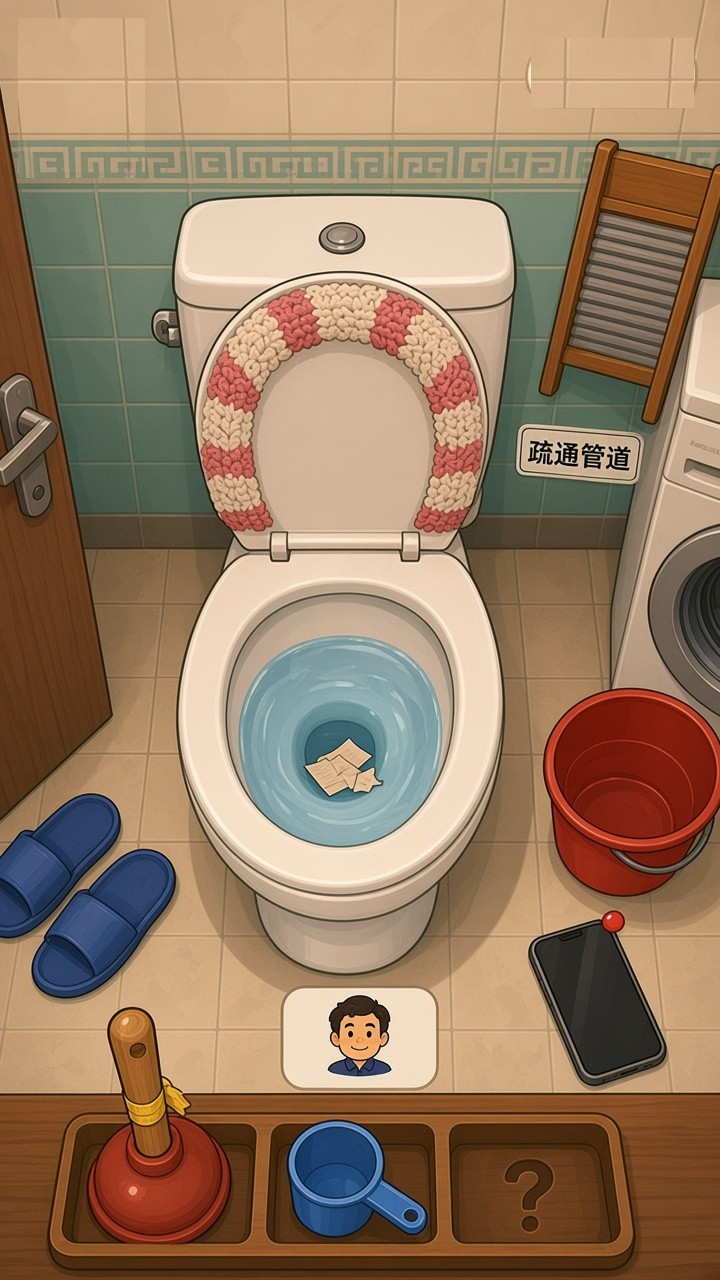
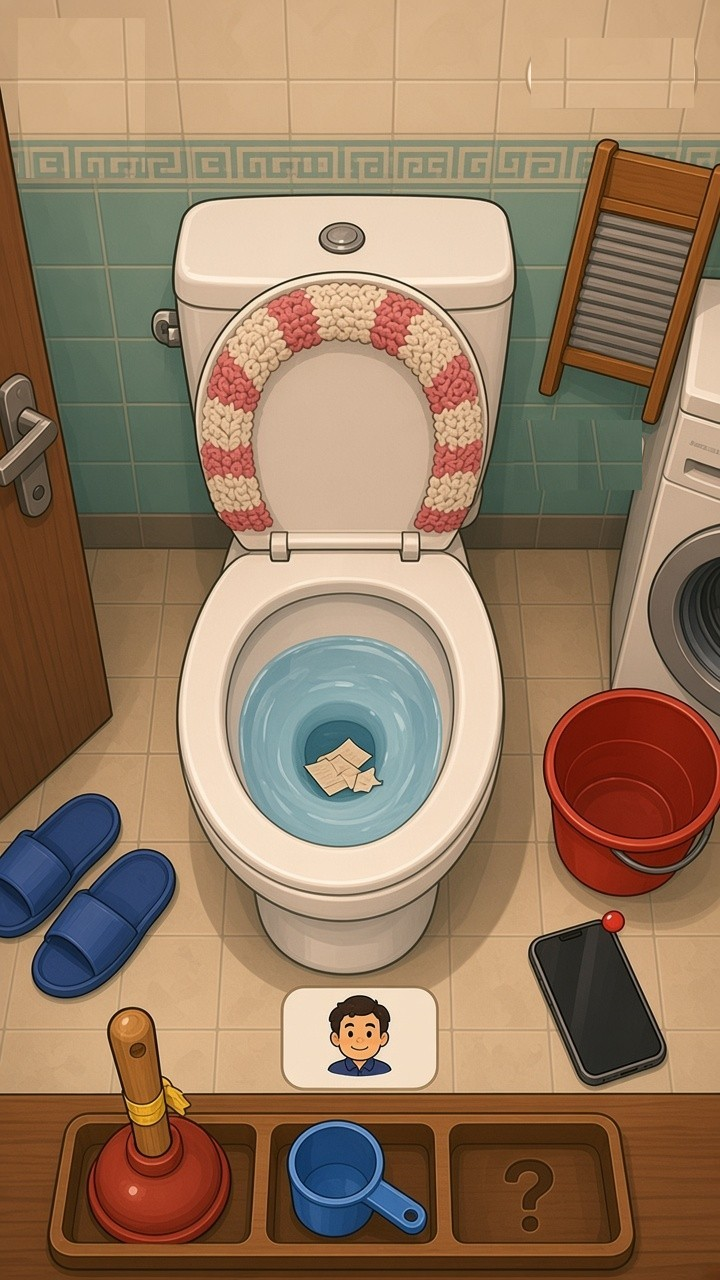
UI: hifi v1.1 — type scale/8px grid spec, remove tips, settlement shows 徐哥, ad removed from mock bg

Changed region(s): [[0.7028, 0.3125, 0.9167, 0.4062]]

diff --git a/design/ui/hifi/hifi_v1.html b/design/ui/hifi/hifi_v1.html
@@ -1,121 +1,139 @@
 <html><head><meta charset="utf-8"><style>
-:root{--ln:#5A4030;--paper:#FFF8EC;--paper2:#F6EAD3;--coin:#FFC83D;--ok:#6FCF6F;--bad:#F07A5C;--red:#D9413A;--tape:#F2C84B;--sh:0 3px 8px rgba(70,45,25,.28)}
-*{box-sizing:border-box}
-body{margin:0;background:#2b211b;font-family:"Noto Sans CJK SC",sans-serif;color:var(--ln)}
-.row{display:flex;gap:28px;padding:28px}
-.cap{color:#f3e6cf;font-size:15px;margin:0 0 10px;font-weight:700}
-.ph{position:relative;width:390px;height:780px;border-radius:30px;overflow:hidden;outline:4px solid #000;background:url(_bg_clean.jpg) center/cover}
-.safe{position:absolute;left:0;right:0;height:15px;background:repeating-linear-gradient(45deg,rgba(255,0,80,.18) 0 6px,transparent 6px 12px);z-index:20;pointer-events:none}
+/* ===== tokens (ui-spec v1.1) ===== */
+:root{
+ --ink:#5A4030;--ink2:#8A6F5A;--ink3:#B9A68F;--line:#E6D6BC;
+ --paper:#FFF8EC;--paper2:#F6EAD3;--coin:#FFC83D;--ok:#5DBB63;--okbg:#E8F5E3;--red:#D9413A;
+ --sh:0 2px 8px rgba(70,45,25,.25);
+ --s1:4px;--s2:8px;--s3:16px;--s4:24px;--s5:32px;
+}
+*{box-sizing:border-box;margin:0}
+body{background:#2b211b;font-family:"Noto Sans CJK SC",sans-serif;color:var(--ink);font-variant-numeric:tabular-nums;-webkit-font-smoothing:antialiased}
+.t1{font-size:40px;line-height:48px;font-weight:700}
+.t2{font-size:20px;line-height:28px;font-weight:700}
+.t3{font-size:16px;line-height:24px}
+.t4{font-size:14px;line-height:20px}
+.t5{font-size:12px;line-height:16px}
+.b{font-weight:700}.mute{color:var(--ink2)}.c{text-align:center}
+.row{display:flex;gap:32px;padding:32px}
+.cap{color:#f3e6cf;font-size:14px;margin:0 0 8px;font-weight:700}
+.ph{position:relative;width:390px;height:780px;border-radius:32px;overflow:hidden;outline:4px solid #000;background:url(_bg_clean.jpg) center/cover}
+.safe{position:absolute;left:0;right:0;height:15px;background:repeating-linear-gradient(45deg,rgba(255,0,80,.18) 0 6px,transparent 6px 12px);z-index:20}
 .wxcap{position:absolute;top:8px;right:8px;width:88px;height:32px;border-radius:16px;border:1.5px dashed rgba(255,255,255,.8);background:rgba(0,0,0,.25);color:#fff;font-size:10px;display:flex;align-items:center;justify-content:center;z-index:20}
-.dim::after{content:"";position:absolute;inset:0;background:rgba(43,30,20,.55);z-index:5}
-.card{position:absolute;z-index:6;background:var(--paper);border:2px solid var(--ln);border-radius:20px;box-shadow:var(--sh)}
-.btn{border:2px solid var(--ln);border-radius:14px;font-weight:900;display:flex;align-items:center;justify-content:center;box-shadow:inset 0 -4px 0 rgba(90,64,48,.22),var(--sh)}
-.pri{background:linear-gradient(#FFD45E,#F5B92E);font-size:20px}
-.sec{background:#fff;font-size:15px}
-.small{font-size:12px;color:#8a6f5a;line-height:1.3}
+.dim::after{content:"";position:absolute;inset:0;background:rgba(43,30,20,.6);z-index:5}
+.panel{background:var(--paper);border:2px solid var(--ink);box-shadow:var(--sh)}
+.card{position:absolute;left:24px;right:24px;z-index:6;border-radius:24px;padding:24px}
+.btn{height:56px;border:2px solid var(--ink);border-radius:16px;display:flex;align-items:center;justify-content:center;box-shadow:inset 0 -4px 0 rgba(90,64,48,.2),var(--sh)}
+.pri{background:linear-gradient(#FFD45E,#F5B92E)}
+.sec{height:48px;background:#fff}
+.hr{height:0;border-top:1.5px dashed var(--line)}
+.kv{display:flex;justify-content:space-between;align-items:center;height:32px}
 /* HUD */
-.who{position:absolute;top:48px;left:12px;width:74px;padding:5px 5px 6px;background:var(--paper);border:2px solid var(--ln);border-radius:14px;box-shadow:var(--sh);z-index:3;text-align:center}
-.who img{width:60px;height:60px;border-radius:10px;display:block;margin:0 auto}
-.pat{display:flex;gap:4px;justify-content:center;margin-top:5px}.pat i{width:10px;height:10px;border-radius:50%;background:var(--ok);border:1.5px solid var(--ln)}.pat i.off{background:#E5D6BD}
-.coins{position:absolute;top:48px;right:12px;height:40px;padding:0 14px 0 6px;background:var(--paper);border:2px solid var(--ln);border-radius:20px;box-shadow:var(--sh);display:flex;align-items:center;gap:6px;font-size:20px;font-weight:900;z-index:3}
-.cn{width:28px;height:28px;border-radius:50%;background:radial-gradient(circle at 40% 35%,#FFE38A,#F2B21C);border:2px solid #B07A10;color:#8a5a00;font-size:15px;font-weight:900;display:flex;align-items:center;justify-content:center}
-.order{position:absolute;top:96px;right:62px;height:36px;padding:0 10px;background:rgba(255,248,236,.94);border:2px solid var(--ln);border-radius:12px;box-shadow:var(--sh);display:flex;align-items:center;gap:6px;font-size:14px;font-weight:900;z-index:3}
-.gear{position:absolute;top:92px;right:12px;width:44px;height:44px;border-radius:50%;background:var(--paper);border:2px solid var(--ln);box-shadow:var(--sh);display:flex;align-items:center;justify-content:center;font-size:22px;z-index:3}
-.bubble{position:absolute;left:96px;top:150px;max-width:220px;background:#fff;border:2px solid var(--ln);border-radius:14px;padding:7px 12px;font-size:14px;font-weight:700;box-shadow:var(--sh);z-index:3}
-.bubble::before{content:"";position:absolute;left:-9px;top:12px;border:8px solid transparent;border-right-color:var(--ln);border-left:0}
-.toast{position:absolute;left:50%;top:390px;transform:translateX(-50%);font-size:32px;font-weight:900;color:var(--ok);-webkit-text-stroke:1.5px var(--ln);text-shadow:0 3px 6px rgba(0,0,0,.25);z-index:3}
-.ring{position:absolute;left:142px;top:430px;width:110px;height:110px;border-radius:50%;border:5px solid var(--ok);border-right-color:transparent;z-index:3;opacity:.9;filter:drop-shadow(0 0 6px rgba(111,207,111,.8))}
+.who{position:absolute;top:48px;left:16px;width:80px;padding:8px;border-radius:16px;z-index:3}
+.who img{width:60px;height:60px;border-radius:8px;display:block;margin:0 auto}
+.pat{display:flex;gap:4px;justify-content:center;margin-top:8px}.pat i{width:12px;height:8px;border-radius:4px;background:var(--ok)}.pat i.off{background:#E5D6BD}
+.coins{position:absolute;top:48px;right:16px;height:40px;padding:0 16px 0 8px;border-radius:20px;display:flex;align-items:center;gap:8px;z-index:3}
+.cn{width:24px;height:24px;border-radius:50%;background:radial-gradient(circle at 40% 35%,#FFE38A,#F2B21C);border:2px solid #B07A10;color:#7a4e00;font-size:12px;font-weight:700;display:flex;align-items:center;justify-content:center}
+.order{position:absolute;top:96px;right:72px;height:48px;padding:0 16px;border-radius:16px;display:flex;flex-direction:column;justify-content:center;z-index:3}
+.gear{position:absolute;top:96px;right:16px;width:48px;height:48px;border-radius:50%;display:flex;align-items:center;justify-content:center;z-index:3}
+.gear svg{width:24px;height:24px}
+.bubble{position:absolute;left:16px;top:160px;max-width:240px;padding:8px 16px;border-radius:16px;z-index:3;background:#fff}
+.bubble::before{content:"";position:absolute;left:32px;top:-9px;border:8px solid transparent;border-bottom-color:var(--ink);border-top:0}
+.toast{position:absolute;left:0;right:0;top:384px;text-align:center;color:var(--ok);-webkit-text-stroke:1.5px var(--ink);z-index:3}
+.ring{position:absolute;left:144px;top:432px;width:104px;height:104px;border-radius:50%;border:4px solid var(--ok);border-right-color:transparent;z-index:3;filter:drop-shadow(0 0 6px rgba(93,187,99,.8))}
 /* toolbox */
-.floor{position:absolute;left:0;right:0;bottom:0;height:190px;background:linear-gradient(90deg,rgba(150,120,85,.35) 1px,transparent 1px) 0 0/62px 62px,linear-gradient(rgba(150,120,85,.35) 1px,transparent 1px) 0 0/62px 62px,#D9C3A0;box-shadow:0 -6px 10px rgba(80,55,30,.25);z-index:2}
-.box{position:absolute;left:12px;bottom:18px;width:290px;height:130px;background:url(_toolbox_crop.png) center/100% 100%;z-index:3;filter:drop-shadow(0 4px 6px rgba(60,35,15,.35))}
-.slot{position:absolute;top:8px;width:64px;height:84px}
-.slot.sel{outline:3px solid #FFE27A;border-radius:6px;box-shadow:0 0 12px 3px rgba(255,220,90,.9);transform:translateY(-8px)}
-.lab{position:absolute;bottom:8px;width:64px;text-align:center;font-size:12px;font-weight:900;color:#FFF3DA;text-shadow:0 1px 0 rgba(0,0,0,.5)}
-.lab.lk{color:#F5D9B0;font-weight:700}
-.phone{position:absolute;right:14px;bottom:34px;width:62px;height:94px;border-radius:12px;background:linear-gradient(160deg,#3a3a3a,#161616);border:2px solid #111;transform:rotate(-10deg);box-shadow:0 5px 8px rgba(0,0,0,.35);z-index:3}
-.phone::after{content:"";position:absolute;inset:5px;border-radius:7px;background:linear-gradient(160deg,#2c3440,#11161c)}
+.floor{position:absolute;left:0;right:0;bottom:0;height:192px;background:linear-gradient(90deg,rgba(150,120,85,.3) 1px,transparent 1px) 0 0/64px 64px,linear-gradient(rgba(150,120,85,.3) 1px,transparent 1px) 0 0/64px 64px,#D9C3A0;box-shadow:0 -4px 8px rgba(80,55,30,.2);z-index:2}
+.box{position:absolute;left:16px;bottom:16px;width:288px;height:128px;background:url(_toolbox_crop.png) center/100% 100%;z-index:3;filter:drop-shadow(0 4px 6px rgba(60,35,15,.35))}
+.slot{position:absolute;top:8px;width:64px;height:80px}
+.slot.sel{outline:3px solid #FFE27A;border-radius:8px;box-shadow:0 0 12px 2px rgba(255,220,90,.9)}
+.lab{position:absolute;bottom:8px;width:64px;text-align:center;font-size:12px;line-height:16px;font-weight:700;color:#FFF3DA;text-shadow:0 1px 0 rgba(0,0,0,.45)}
+.lab.lk{font-weight:400;color:#F5D9B0}
+.phone{position:absolute;right:16px;bottom:32px;width:64px;height:96px;border-radius:12px;background:linear-gradient(160deg,#3a3a3a,#161616);border:2px solid #111;transform:rotate(-10deg);box-shadow:0 4px 8px rgba(0,0,0,.35);z-index:3}
+.phone::after{content:"";position:absolute;inset:4px;border-radius:8px;background:linear-gradient(160deg,#2c3440,#11161c)}
 .dim .phone{z-index:7}
-
-.dot{position:absolute;right:-6px;top:-6px;width:20px;height:20px;border-radius:50%;background:var(--red);border:2px solid #fff;color:#fff;font-size:11px;font-weight:900;display:flex;align-items:center;justify-content:center;z-index:2}
-.call{position:absolute;right:20px;top:560px;width:52px;height:52px;border-radius:50%;background:#FFF3C4;border:2px solid var(--ln);box-shadow:var(--sh),0 0 0 4px rgba(242,200,75,.55);display:flex;align-items:center;justify-content:center;font-size:24px;z-index:4}
-.free{position:absolute;right:6px;top:602px;background:var(--red);color:#fff;font-size:11px;font-weight:900;padding:1px 6px;border-radius:8px;border:1.5px solid #fff;z-index:5}
-.tg{display:flex;justify-content:space-between;align-items:center;padding:13px 4px;border-bottom:1.5px dashed #e0cfb2;font-size:16px;font-weight:700}
-.sw{width:54px;height:30px;border-radius:15px;border:2px solid var(--ln);background:var(--ok);position:relative}
-.sw::after{content:"";position:absolute;right:2px;top:2px;width:22px;height:22px;border-radius:50%;background:#fff;box-shadow:0 1px 2px rgba(0,0,0,.3)}
-.sw.off{background:#d8c8ad}.sw.off::after{left:2px;right:auto}
+.dot{position:absolute;right:-8px;top:-8px;min-width:20px;height:20px;border-radius:10px;background:var(--red);border:2px solid #fff;color:#fff;font-size:12px;line-height:16px;font-weight:700;text-align:center;z-index:2}
+.call{position:absolute;right:20px;top:560px;width:56px;height:56px;border-radius:50%;background:#FFF3C4;display:flex;align-items:center;justify-content:center;font-size:24px;z-index:4;box-shadow:var(--sh),0 0 0 4px rgba(242,200,75,.5)}
+.free{position:absolute;right:8px;top:608px;height:20px;padding:2px 8px;border-radius:10px;background:var(--red);color:#fff;z-index:5;border:1.5px solid #fff;display:flex;align-items:center}
+/* settings */
+.tg{display:flex;justify-content:space-between;align-items:center;min-height:56px;border-bottom:1.5px dashed var(--line)}
+.sw{width:48px;height:28px;border-radius:14px;background:var(--ok);position:relative;border:2px solid var(--ink)}
+.sw::after{content:"";position:absolute;right:2px;top:2px;width:20px;height:20px;border-radius:50%;background:#fff;box-shadow:0 1px 2px rgba(0,0,0,.3)}
+.sw.off{background:#D8C8AD}.sw.off::after{left:2px;right:auto}
 .dis{opacity:.45}
-.line{display:flex;justify-content:space-between}
+.chip{width:24px;height:24px;border-radius:8px;background:var(--paper2);border:1.5px solid var(--line);display:flex;align-items:center;justify-content:center;font-size:12px;font-weight:700;flex:none}
 </style></head><body><div class="row">
 
 <div><p class="cap">① 维修中 HUD + 工具箱</p><div class="ph">
- <div class="safe" style="top:0"></div><div class="safe" style="bottom:0"></div>
- <div class="wxcap">小游戏胶囊区</div>
- <div class="who"><img src="_wang.png"><div class="pat"><i></i><i></i><i></i><i class="off"></i></div></div>
- <div class="coins"><span class="cn">¥</span>128</div>
- <div class="order">本单 ¥30<span class="small" style="font-weight:700">+小费</span></div>
- <div class="gear">⚙</div>
- <div class="bubble">小伙子，慢慢来，不急。</div>
- <div class="ring"></div><div class="toast">完美!</div>
+ <div class="safe" style="top:0"></div><div class="safe" style="bottom:0"></div><div class="wxcap">小游戏胶囊区</div>
+ <div class="who panel"><img src="_wang.png"><div class="pat"><i></i><i></i><i></i><i class="off"></i></div></div>
+ <div class="coins panel"><span class="cn">¥</span><span class="t2">128</span></div>
+ <div class="order panel"><span class="t5 mute">本单</span><span class="t3 b">¥30</span></div>
+ <div class="gear panel"><svg viewBox="0 0 24 24" fill="none" stroke="#5A4030" stroke-width="2"><circle cx="12" cy="12" r="3.2"/><path d="M12 2.5v3M12 18.5v3M2.5 12h3M18.5 12h3M5.3 5.3l2.1 2.1M16.6 16.6l2.1 2.1M5.3 18.7l2.1-2.1M16.6 7.4l2.1-2.1"/><circle cx="12" cy="12" r="6.5"/></svg></div>
+ <div class="bubble panel t4 b">小伙子，慢慢来，不急。</div>
+ <div class="ring"></div><div class="toast t1">完美!</div>
  <div class="floor"></div>
- <div class="box">
-  <div class="slot sel" style="left:8px"></div>
-  <div class="lab" style="left:11px">皮搋子</div><div class="lab" style="left:78px">水瓢</div>
-  <div class="lab lk" style="left:146px">升级解锁</div><div class="lab lk" style="left:214px">升级解锁</div>
- </div>
+ <div class="box"><div class="slot sel" style="left:8px;top:0"></div>
+  <div class="lab" style="left:9px">皮搋子</div><div class="lab" style="left:77px">水瓢</div><div class="lab lk" style="left:146px">升级解锁</div><div class="lab lk" style="left:214px">升级解锁</div></div>
  <div class="phone"><div class="dot">2</div></div>
- <div class="call">📞</div><div class="free">今日免费</div>
+ <div class="call panel">📞</div><div class="free t5 b">今日免费</div>
 </div></div>
 
-<div><p class="cap">② 结算页</p><div class="ph dim">
-<div class="floor"></div><div class="box"><div class="lab" style="left:11px">皮搋子</div><div class="lab" style="left:78px">水瓢</div><div class="lab lk" style="left:146px">升级解锁</div><div class="lab lk" style="left:214px">升级解锁</div></div>
- <div class="card" style="left:22px;right:22px;top:140px;padding:20px 22px 22px;text-align:center">
-  <img src="_wang.png" style="width:84px;height:84px;border-radius:18px;border:2px solid var(--ln);margin:-62px auto 6px;display:block;box-shadow:var(--sh)">
-  <div style="font-size:18px;font-weight:900">“师傅手艺真好！”</div>
-  <div class="small" style="margin:4px 0 14px">王阿姨家 · 卫生间</div>
-  <div style="text-align:left;font-size:15px;line-height:2;border-top:1.5px dashed #e0cfb2;border-bottom:1.5px dashed #e0cfb2;padding:6px 4px">
-   <div class="line"><span>工钱</span><b>¥30</b></div><div class="line"><span>小费</span><b>¥10</b></div><div class="line"><span>用时</span><b>8.4 秒</b></div></div>
-  <div style="margin:12px 0;background:#E8F7E4;border:1.5px solid #9CCB92;border-radius:12px;padding:8px;font-weight:900;font-size:14px;color:#3d6b35">比第 2 单快了 3.4 秒 · 新纪录！</div>
-  <div style="font-size:46px;font-weight:900;color:var(--coin);-webkit-text-stroke:1.5px #8a5a00;text-shadow:0 3px 6px rgba(0,0,0,.2)">+¥40</div>
-  <div class="btn pri" style="height:58px;margin-top:14px">接下一单 ▶</div>
-  <div class="btn sec" style="height:44px;margin-top:12px">▶ 看广告 小费翻倍</div>
+<div><p class="cap">② 结算页（第 4 单 · 徐哥）</p><div class="ph dim">
+ <div class="floor"></div><div class="box"></div>
+ <div class="card panel" style="top:128px">
+  <img src="_xu.png" style="width:80px;height:80px;border-radius:16px;border:2px solid var(--ink);margin:-64px auto 8px;display:block;box-shadow:var(--sh);background:#f6e6cc">
+  <div class="t2 c">“比上次还快！赶得上了。”</div>
+  <div class="t5 mute c" style="margin-top:4px">徐哥家 · 卫生间</div>
+  <div class="hr" style="margin-top:16px"></div>
+  <div style="padding:8px 0">
+   <div class="kv t3"><span class="mute">工钱</span><b>¥45</b></div>
+   <div class="kv t3"><span class="mute">用时</span><b>8.4 秒</b></div>
+   <div class="kv t3"><span class="mute">收到</span><b>两个车上拉的橙子</b></div>
+  </div>
+  <div class="hr"></div>
+  <div class="t4 b c" style="margin-top:16px;height:40px;line-height:40px;border-radius:12px;background:var(--okbg);color:#3d6b35">比第 2 单快了 3.4 秒 · 新纪录</div>
+  <div class="t1 c" style="margin-top:16px;color:var(--coin);-webkit-text-stroke:1.5px #8a5a00">+¥45</div>
+  <div class="btn pri t2" style="margin-top:16px">接下一单</div>
+  <div class="btn sec t3 b" style="margin-top:16px">▶ 看广告 工钱翻倍</div>
  </div>
  <div class="phone"><div class="dot">1</div></div>
 </div></div>
 
 <div><p class="cap">③ 升级卡</p><div class="ph dim">
-<div class="floor"></div><div class="box"><div class="lab" style="left:11px">皮搋子</div><div class="lab" style="left:78px">水瓢</div><div class="lab lk" style="left:146px">升级解锁</div><div class="lab lk" style="left:214px">升级解锁</div></div>
- <div class="card" style="left:22px;right:22px;top:110px;padding:18px 20px 20px;text-align:center">
-  <div class="small" style="font-size:13px">五金店 · 老陈</div>
-  <div style="font-size:24px;font-weight:900;margin:2px 0 12px">加压皮搋子</div>
-  <div style="display:flex;align-items:center;justify-content:space-around;background:var(--paper2);border:1.5px solid #d9c3a0;border-radius:14px;padding:12px 6px">
-   <div><div style="font-size:50px">🪠</div><div class="small">现在 · 缠胶布</div></div>
-   <div style="font-size:26px;font-weight:900;color:#b08a68">➜</div>
-   <div><div style="font-size:50px;filter:hue-rotate(200deg) saturate(1.3)">🪠</div><div class="small" style="color:#2E3F66;font-weight:900">升级后</div></div>
+ <div class="floor"></div><div class="box"></div>
+ <div class="card panel" style="top:96px">
+  <div class="t5 mute c">五金店 · 老陈</div>
+  <div class="t2 c" style="margin-top:4px">加压皮搋子</div>
+  <div style="margin-top:16px;height:128px;border-radius:16px;background:var(--paper2);display:flex;align-items:center;justify-content:space-around">
+   <div class="c"><img src="_plunger.png" style="height:88px"><div class="t5 mute">现在</div></div>
+   <svg width="24" height="24" viewBox="0 0 24 24" fill="none" stroke="#B9A68F" stroke-width="2.5" stroke-linecap="round"><path d="M4 12h15M13 6l6 6-6 6"/></svg>
+   <div class="c"><img src="_plunger.png" style="height:88px;filter:hue-rotate(200deg) saturate(1.2)"><div class="t5 b" style="color:#2E3F66">升级后</div></div>
   </div>
-  <div style="text-align:left;font-size:14px;line-height:1.45;margin:12px 2px">
-   <div style="display:flex;gap:8px;margin:6px 0"><span>🎯</span><span><b>节奏窗口 ×2</b><br><span class="small">更容易按出“完美”</span></span></div>
-   <div style="display:flex;gap:8px;margin:6px 0"><span>💪</span><span><b>按准一下顶两下</b><br><span class="small">没按准也有效</span></span></div>
-   <div style="display:flex;gap:8px;margin:6px 0"><span>🧲</span><span><b>吸附圈变大</b><br><span class="small">扔过去就吸住</span></span></div>
+  <div style="margin-top:16px;display:grid;gap:8px">
+   <div style="display:flex;gap:8px"><span class="chip">1</span><span><span class="t3 b">节奏窗口 ×2</span><br><span class="t5 mute">更容易按出“完美”</span></span></div>
+   <div style="display:flex;gap:8px"><span class="chip">2</span><span><span class="t3 b">按准一下顶两下</span><br><span class="t5 mute">没按准也有效</span></span></div>
+   <div style="display:flex;gap:8px"><span class="chip">3</span><span><span class="t3 b">吸附圈变大</span><br><span class="t5 mute">扔过去就吸住</span></span></div>
   </div>
-  <div class="small" style="margin-bottom:8px">你有 <b style="color:var(--ln)">¥157</b></div>
-  <div class="btn pri" style="height:58px">买！¥100</div>
-  <div class="btn sec" style="height:44px;margin-top:10px">先不买</div>
-  <div class="small" style="margin-top:10px">▶ 看广告 免费试用一单</div>
+  <div class="t5 mute c" style="margin-top:16px">你有 ¥157</div>
+  <div class="btn pri t2" style="margin-top:8px">买 · ¥100</div>
+  <div class="btn sec t3 b" style="margin-top:16px">先不买</div>
+  <div class="t4 mute c" style="margin-top:16px">▶ 看广告 免费试用一单</div>
  </div>
  <div class="phone"><div class="dot">1</div></div>
 </div></div>
 
-<div><p class="cap">④ ⚙ 设置卡</p><div class="ph dim">
-<div class="floor"></div><div class="box"><div class="lab" style="left:11px">皮搋子</div><div class="lab" style="left:78px">水瓢</div><div class="lab lk" style="left:146px">升级解锁</div><div class="lab lk" style="left:214px">升级解锁</div></div>
- <div class="gear" style="z-index:7">⚙</div>
- <div class="card" style="left:30px;right:30px;top:170px;padding:18px 22px 22px">
-  <div style="font-size:20px;font-weight:900;text-align:center;margin-bottom:4px">设置</div>
-  <div class="tg"><span>🔊 声音</span><div class="sw"></div></div>
-  <div class="tg"><span>✨ 省动效<br><span class="small">减少抖动和闪光</span></span><div class="sw off"></div></div>
-  <div class="tg dis"><span>📳 震动<br><span class="small">本机不支持</span></span><div class="sw off"></div></div>
-  <div style="margin-top:14px;background:#FFF3C4;border:1.5px solid #E2C46A;border-radius:12px;padding:8px 10px;font-size:13px;font-weight:700">📞 卡住了？问老钱 · 今日免费 1 次</div>
-  <div class="btn pri" style="height:52px;margin-top:16px;font-size:18px">继续干活</div>
-  <div class="small" style="text-align:center;margin-top:8px">点卡片外也可关闭 · 打开时游戏暂停</div>
+<div><p class="cap">④ 设置卡</p><div class="ph dim">
+ <div class="floor"></div><div class="box"></div>
+ <div class="gear panel" style="z-index:7"><svg viewBox="0 0 24 24" fill="none" stroke="#5A4030" stroke-width="2"><circle cx="12" cy="12" r="3.2"/><path d="M12 2.5v3M12 18.5v3M2.5 12h3M18.5 12h3M5.3 5.3l2.1 2.1M16.6 16.6l2.1 2.1M5.3 18.7l2.1-2.1M16.6 7.4l2.1-2.1"/><circle cx="12" cy="12" r="6.5"/></svg></div>
+ <div class="card panel" style="top:176px">
+  <div class="t2 c">设置</div>
+  <div style="margin-top:8px">
+   <div class="tg"><span class="t3 b">声音</span><div class="sw"></div></div>
+   <div class="tg"><span><span class="t3 b">省动效</span><br><span class="t5 mute">减少抖动和闪光</span></span><div class="sw off"></div></div>
+   <div class="tg dis"><span><span class="t3 b">震动</span><br><span class="t5 mute">本机不支持</span></span><div class="sw off"></div></div>
+  </div>
+  <div class="t4 b" style="margin-top:16px;padding:8px 16px;border-radius:12px;background:#FFF3C4">卡住了？问老钱 · 今日免费 1 次</div>
+  <div class="btn pri t2" style="margin-top:16px">继续干活</div>
+  <div class="t5 mute c" style="margin-top:8px">点卡片外也能关闭 · 打开时游戏暂停</div>
  </div>
 </div></div>
 

diff --git a/design/ui/hifi/ui-spec.md b/design/ui/hifi/ui-spec.md
@@ -1,42 +1,87 @@
-# UI 规范 v1（按 art-spec v2 / gameplay_frame_v1，2026-11-10）
+# UI 规范 v1.1（按 art-spec v2 / gameplay_frame_v1，2026-11-10）
 效果图：`hifi_v1_artv2.png`（源文件 `hifi_v1.html`）。v0（`hifi.html` / `hifi_v1.png`）作废。
-效果图背景用的是样张，抹掉了原来画进去的头像和金币，正式版背景里本来就不画 UI。
+效果图背景用的是样张，抹掉了原来画进去的头像、金币和「疏通管道」小广告，正式版背景里本来就不画 UI。
 
 ## 画布
 - 逻辑画布 390×780。背景按 375×812 出图，等比铺满，上下各裁掉约 15px。上下这 15px 不放可点的东西。
 - 右上角 0–44 留给微信 / 抖音小游戏的胶囊菜单，HUD 从 top 48 开始。
 
-## 通用（v2 画风）
-- 描边：暖棕 #5A4030，2px；卡片里的分隔线用 1.5px 虚线 #E0CFB2。不再用 3px 黑描边和硬投影。
-- 投影：`0 3px 8px rgba(70,45,25,.28)`。按钮另加内阴影 `inset 0 -4px 0 rgba(90,64,48,.22)`；按下时下移 2px，去掉内阴影。
-- 卡片底色 #FFF8EC；圆角：卡片 20、按钮 14、胶囊 20。
-- 主按钮用金色渐变 #FFD45E→#F5B92E，高 58，字号 20、粗体。次按钮白底，高 44，字号 15。
-- 最小字号 12，点击区域至少 44×44。遮罩 rgba(43,30,20,.55)，弹出时游戏暂停。
-- 功能色不变：金币 #FFC83D，有效 #6FCF6F，无效 #F07A5C，红点 #D9413A。
+## 设计规范（v1.1，所有界面严格按这套数值，开发不要凭感觉摆）
+
+### 字体
+- 中文、数字统一用思源黑体（Noto Sans CJK SC），只用 Regular 400 和 Bold 700 两档。打包时只带常用字子集。
+- 数字一律用等宽数字（`font-variant-numeric: tabular-nums`），金额跳动时不会左右抖。
+- 不用 emoji 当正式图标。现在效果图里只剩 📞 一处占位，等美术出老钱头像后替换。
+
+### 字号（5 级，字号/行高，单位 px）
+| 级别 | 字号/行高 | 字重 | 用在哪 |
+|---|---|---|---|
+| T1 展示 | 40/48 | Bold + 1.5px 描边 | 结算金额、「完美!」 |
+| T2 标题 | 20/28 | Bold | 卡片标题、客户那句话、主按钮、金币数 |
+| T3 正文 | 16/24 | Regular / Bold | 明细行、开关行、次按钮、本单报酬 |
+| T4 辅助 | 14/20 | Regular / Bold | 台词气泡、对比条、文字链 |
+| T5 注释 | 12/16 | Regular / Bold | 标签、说明小字、角标、工具名 |
+不允许出现这 5 级以外的字号。
+
+### 颜色
+- 主文字 #5A4030，次文字 #8A6F5A，禁用 #B9A68F，分隔线 #E6D6BC。
+- 卡片 #FFF8EC，内嵌底 #F6EAD3。主按钮金色渐变 #FFD45E→#F5B92E。
+- 有效 #5DBB63（底色 #E8F5E3），红点 #D9413A，金币 #FFC83D。
+
+### 间距：8px 网格
+- 所有位置和尺寸都取 8 的倍数，只有图标内部的微调可以用 4。
+- 间距只用 4 / 8 / 16 / 24 / 32 这五档：同一组里的元素隔 8，不同组之间隔 16，卡片内边距 24。
+- 屏幕左右边距 16；弹出卡片离屏幕左右各 24。
+- 尺寸：主按钮高 56，次按钮高 48，圆形按钮 48（老钱按钮 56），列表行高 32，开关行最小高 56。
+- 圆角：8（小件）/ 12（条）/ 16（按钮、胶囊、面板）/ 24（弹出卡片）。
+
+### 对齐
+- 弹出卡片里，标题、客户那句话、金额和按钮都居中；明细行左边是标签（次文字色），右边是数值（Bold），左右贴着卡片内边距对齐。
+- 左右并排的 HUD 元素顶端对齐：客户卡、金币胶囊都在 top 48；本单小牌和 ⚙ 都在 top 96，高度都是 48。
+- 竖排的元素按 8 的倍数间隔，不要居中目测。
+- 图标和文字放在同一行时，垂直居中，间隔 8。
+
+### 描边和投影
+- 描边：暖棕 #5A4030，2px。分隔线用 1.5px 虚线。
+- 投影：`0 2px 8px rgba(70,45,25,.25)`。按钮另加内阴影 `inset 0 -4px 0 rgba(90,64,48,.2)`，按下时下移 2px。
+- 遮罩：rgba(43,30,20,.6)，打开时游戏暂停。
 
 ## ① 维修中 HUD（左右分开）
-- 左上客户卡：left 12 / top 48，宽 74。头像 60×60，圆角 10；下面 4 个耐心点，直径 10。掉一格时头像抖一下，换一张表情。
-- 右上金币胶囊：right 12 / top 48，高 40；¥ 金币 28，数字字号 20、粗体。
-- 金币胶囊下方：左边是「本单 ¥30 +小费」小牌（高 36），右边是 ⚙（44 圆形，top 92）。这块墙面美术已经留空。
-- 台词气泡：头像右侧，left 96 / top 150，最大宽 220，尖角指向头像，3 秒后淡出。冲水按钮在 y≈240，两者不冲突。
-- 反馈字「完美!」#6FCF6F，字号 32，1.5px 棕色描边。
+- 左上客户卡：left 16 / top 48，宽 80，内边距 8。头像 60×60，圆角 8；下面是 4 段耐心条，每段 12×8，间隔 4。掉一格时头像抖一下，换一张表情。
+- 右上金币胶囊：right 16 / top 48，高 40；¥ 金币图标 24，数字用 T2。
+- 金币胶囊下方：⚙ 是 48 的圆形按钮，在 right 16 / top 96；左边隔 8 是「本单」小牌，高 48，上面一行「本单」用 T5，下面一行「¥30」用 T3 Bold。没有小费，HUD 上不再显示「+小费」。
+- 台词气泡：在客户卡正下方，left 16 / top 160，最大宽 240，内边距 8 16，用 T4 Bold，尖角朝上指向头像，3 秒后淡出。
+- 反馈字「完美!」用 T1，颜色 #5DBB63。
 
 ## 工具箱托盘
-- 箱体 290×130，left 12 / bottom 18，下面铺一条地砖底（高 190，把背景里原来的托盘位置盖住）。素材来自 art-spec v2 的分层图：箱盖、箱体、隔板、挂锁挡板。
-- 4 格，每格点击区域 64×84（含格子上方的工具伸出部分）。工具名字号 12、粗体、浅色，写在箱体正面、每格的正下方。
+- 箱体 288×128，left 16 / bottom 16。效果图里额外铺了一条地砖底，只是为了盖住样张里画进去的托盘，正式背景不需要。素材来自 art-spec v2 的分层图：箱盖、箱体、隔板、挂锁挡板。
+- 4 格，每格点击区域 64×80（含格子上方的工具伸出部分）。工具名用 T5 Bold、浅色，写在箱体正面、每格的正下方。
 - 选中的格子：工具上抬 8px，外面加一圈 3px #FFE27A 发光描边。锁住的格子写「升级解锁」，点一下挂锁晃一晃，再弹「去五金店看看」。
 - 升级换皮：只换箱盖和箱体两层，格子的位置和点击区域不变。
 
 ## 旧手机和老钱按钮
-- 手机平放在地上，在工具箱右侧：right 14 / bottom 34，62×94，转 −10°。红点 20，显示未读数。
+- 手机平放在地上，在工具箱右侧：right 16 / bottom 32，64×96，转 −10°。红点高 20，数字用 T5 Bold。
 - 结算、升级、设置这几个弹层打开时，手机放在遮罩上面，只显示红点 +1，不弹通知条。
-- 📞 问老钱：52 圆形，在手机正上方（right 20 / top 560）。平时半透明，触发后亮起，外圈加一道金色光晕，晃一下。角标第一次写「今日免费」，之后写「▶广告」，这一单用过就隐藏。触发条件不变。
+- 问老钱：56 的圆形按钮，和手机中心对齐，放在手机正上方（right 20 / top 560）。平时半透明，触发后亮起，外圈加一道金色光晕，晃一下。角标第一次写「今日免费」，之后写「▶广告」，这一单用过就隐藏。触发条件不变。
 
-## ② 结算页 / ③ 升级卡 / ④ ⚙ 设置卡
-- 内容和顺序同 v0，只换成 v2 的描边和投影。结算页用客户头像图（84，圆角 18），压在卡片顶边上。
-- 结算对比条：#E8F7E4 底，1.5px #9CCB92 描边，深绿字。
-- 升级卡：余额不足时，主按钮变灰，写“还差 ¥X”。
-- 设置卡：省动效的图标改成 ✨，不再用乌龟。
+## ② 结算页（效果图是第 4 单 · 徐哥）
+- 卡片 top 128。客户头像 80，圆角 16，一半压在卡片顶边上。
+- 从上往下：客户那句话（T2）→ 地点（T5）→ 虚线 → 明细行 → 虚线 → 对比条 → 金额（T1）→ 主按钮 → 次按钮，各块之间隔 16。
+- 明细行：「工钱」「用时」两行一直有，「小费」这一行删掉。只有客户打赏时，才多出一行：给现金写「客户硬塞 ¥5」，给东西写「收到 两个车上拉的橙子」，标签取叙事配置里的 `settle_row_label`。
+- 对比条只在第 4 单出现：高 40，#E8F5E3 底，T4 Bold，写「比第 2 单快了 X 秒 · 新纪录」。
+- 金额 = 工钱 + 现金打赏。次按钮改成「▶ 看广告 工钱翻倍」。
+- 主按钮写「接下一单」，最后一单写「收工」。
+
+## ③ 升级卡
+- 卡片 top 96。从上往下：店名（T5）→ 道具名（T2）→ 对比图 → 三条变化 → 余额 → 主按钮「买 · ¥100」→ 次按钮「先不买」→ 文字链「▶ 看广告 免费试用一单」（T4）。
+- 对比图区域高 128，#F6EAD3 底，用工具的真实素材，不用 emoji。
+- 三条变化前面用 24 的编号小方块，标题 T3 Bold，说明 T5，每条隔 8。
+- 余额不足时，主按钮变灰，写「还差 ¥X」。
+
+## ④ 设置卡
+- 卡片 top 176。三行开关：声音、省动效、震动（iOS 上变灰，写「本机不支持」），只写文字，不加图标。开关 48×28。
+- 底部提示条：#FFF3C4 底，T4 Bold，写「卡住了？问老钱 · 今日免费 1 次」。
+- 主按钮「继续干活」；点卡片外面也能关掉。
 
 ## 喂信通知条
 - 只在两单之间和过场时出现。从手机上方冒出来，宽 250，3 秒后缩回手机。图标用 `assets/ui/weixin_icon.svg`，34。
